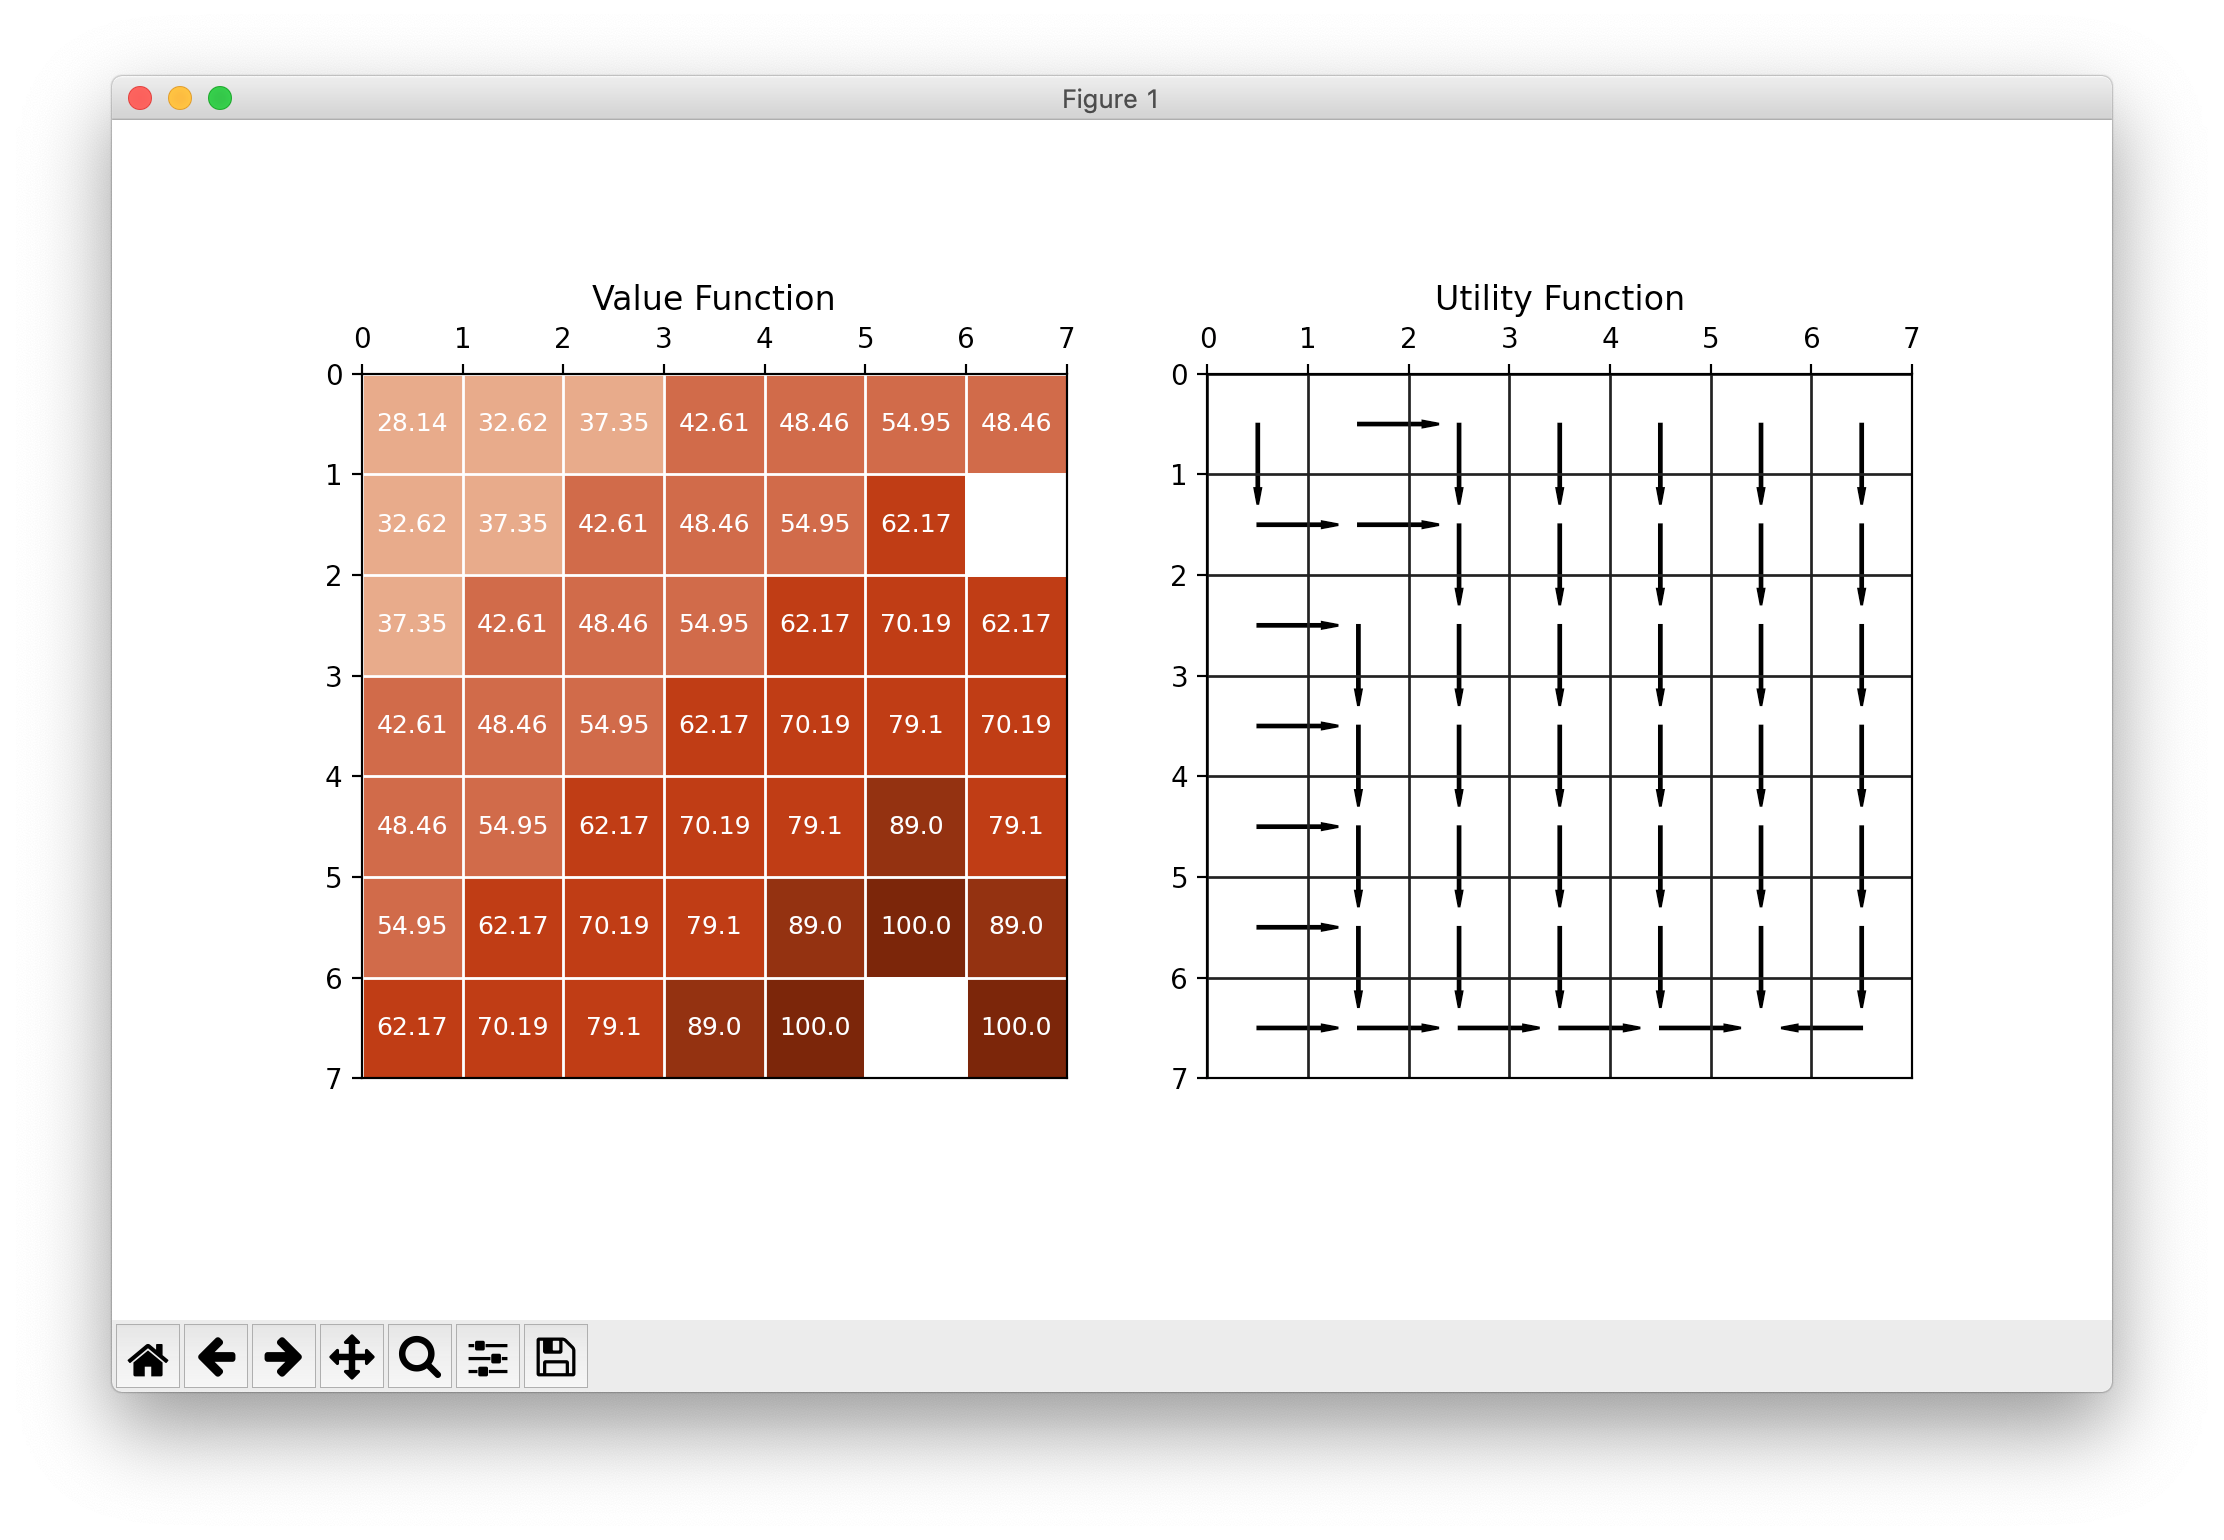
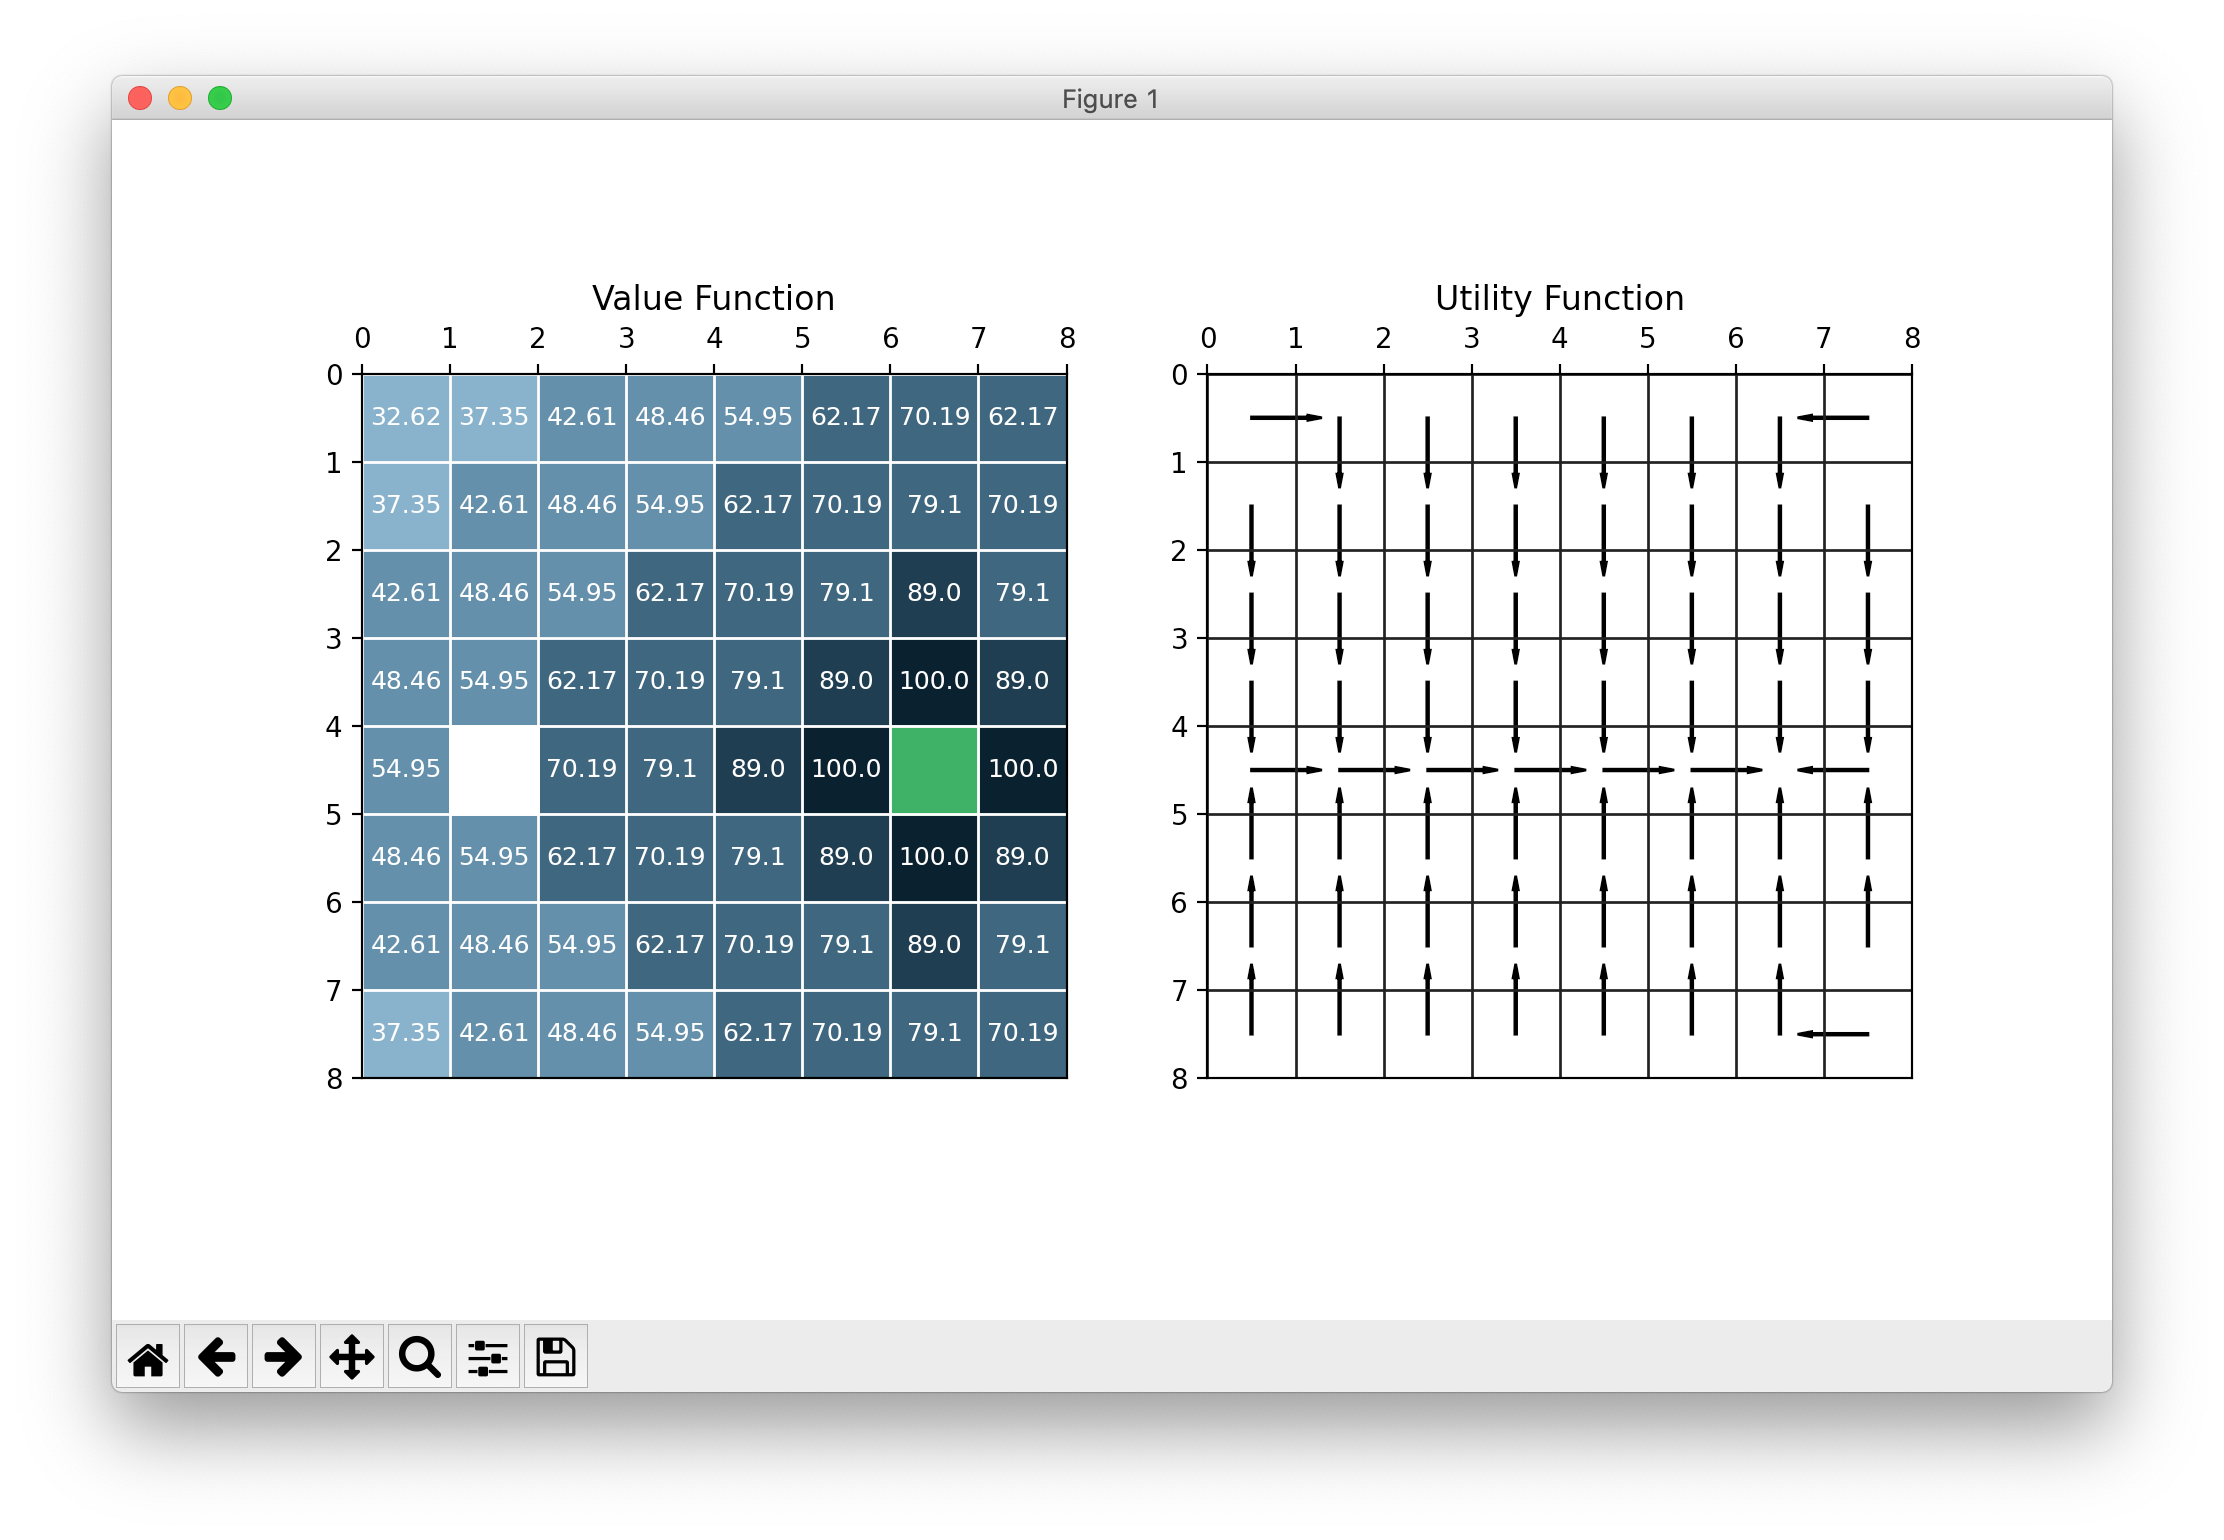
train/view
-colorchanges
-change from .outcome => .out

Changed region(s): [[0.1551, 0.2182, 0.4964, 0.7169], [0.5274, 0.2494, 0.8687, 0.6857]]

diff --git a/view.py b/view.py
@@ -16,17 +16,17 @@ def setup_subplots(subplot: plt.subplot, width: int, height: int, color: str, ti
 
 def check_color(best: int) -> str:
     if 99 <= best <= 100:
-        color = '#691903'
+        color = '#0a1924'
     elif 80 <= best < 99:
-        color = '#822208'
+        color = '#172f40'
     elif 60 <= best < 80:
-        color = '#b32904'
+        color = '#30546e'
     elif 40 <= best < 60:
-        color = '#c75536'
+        color = '#517d9c'
     elif 20 <= best < 40:
-        color = '#e39a76'
+        color = '#76a3c2'
     else:
-        color = '#f7bb9e'
+        color = '#9ac0db'
 
     return color
 
@@ -99,18 +99,18 @@ def main():
             color = check_color(best)
 
             ax.add_patch(matplotlib.patches.Rectangle((j, i), 1, 1, color=color))
-            ax.text(j + 0.5, i + 0.5,
-                    str(best),
-                    horizontalalignment='center', verticalalignment='center',
-                    color='white', size=9)
 
             dx, dy = show_policy(best_action)
 
             if i != terminal_node[0] or j != terminal_node[1]:
+                ax.text(j + 0.5, i + 0.5,
+                        str(best),
+                        horizontalalignment='center', verticalalignment='center',
+                        color='white', size=9)
                 ax2.add_patch(matplotlib.patches.Arrow(j + 0.5, i + 0.5, dx, dy, width=0.1, color='black'))
 
     ax.add_patch(matplotlib.patches.Rectangle((start_node[1], start_node[0]), 1, 1, color="white"))
-    ax.add_patch(matplotlib.patches.Rectangle((terminal_node[1], terminal_node[0]), 1, 1, color="white"))
+    ax.add_patch(matplotlib.patches.Rectangle((terminal_node[1], terminal_node[0]), 1, 1, color="#32a852"))
 
     setup_subplots(ax, width, height, 'white', 'Value Function')
     setup_subplots(ax2, width, height, '#1a1a1a', 'Utility Function')

diff --git a/train.py b/train.py
@@ -71,7 +71,7 @@ def main():
     )
 
     path_to_file, _ = os.path.split(args.path_instance)
-    path = os.path.join(path_to_file, 'q_learning.outcome')
+    path = os.path.join(path_to_file, 'q_learning.out')
 
     with open(path, 'wb') as f:
         pickle.dump(model, f)
